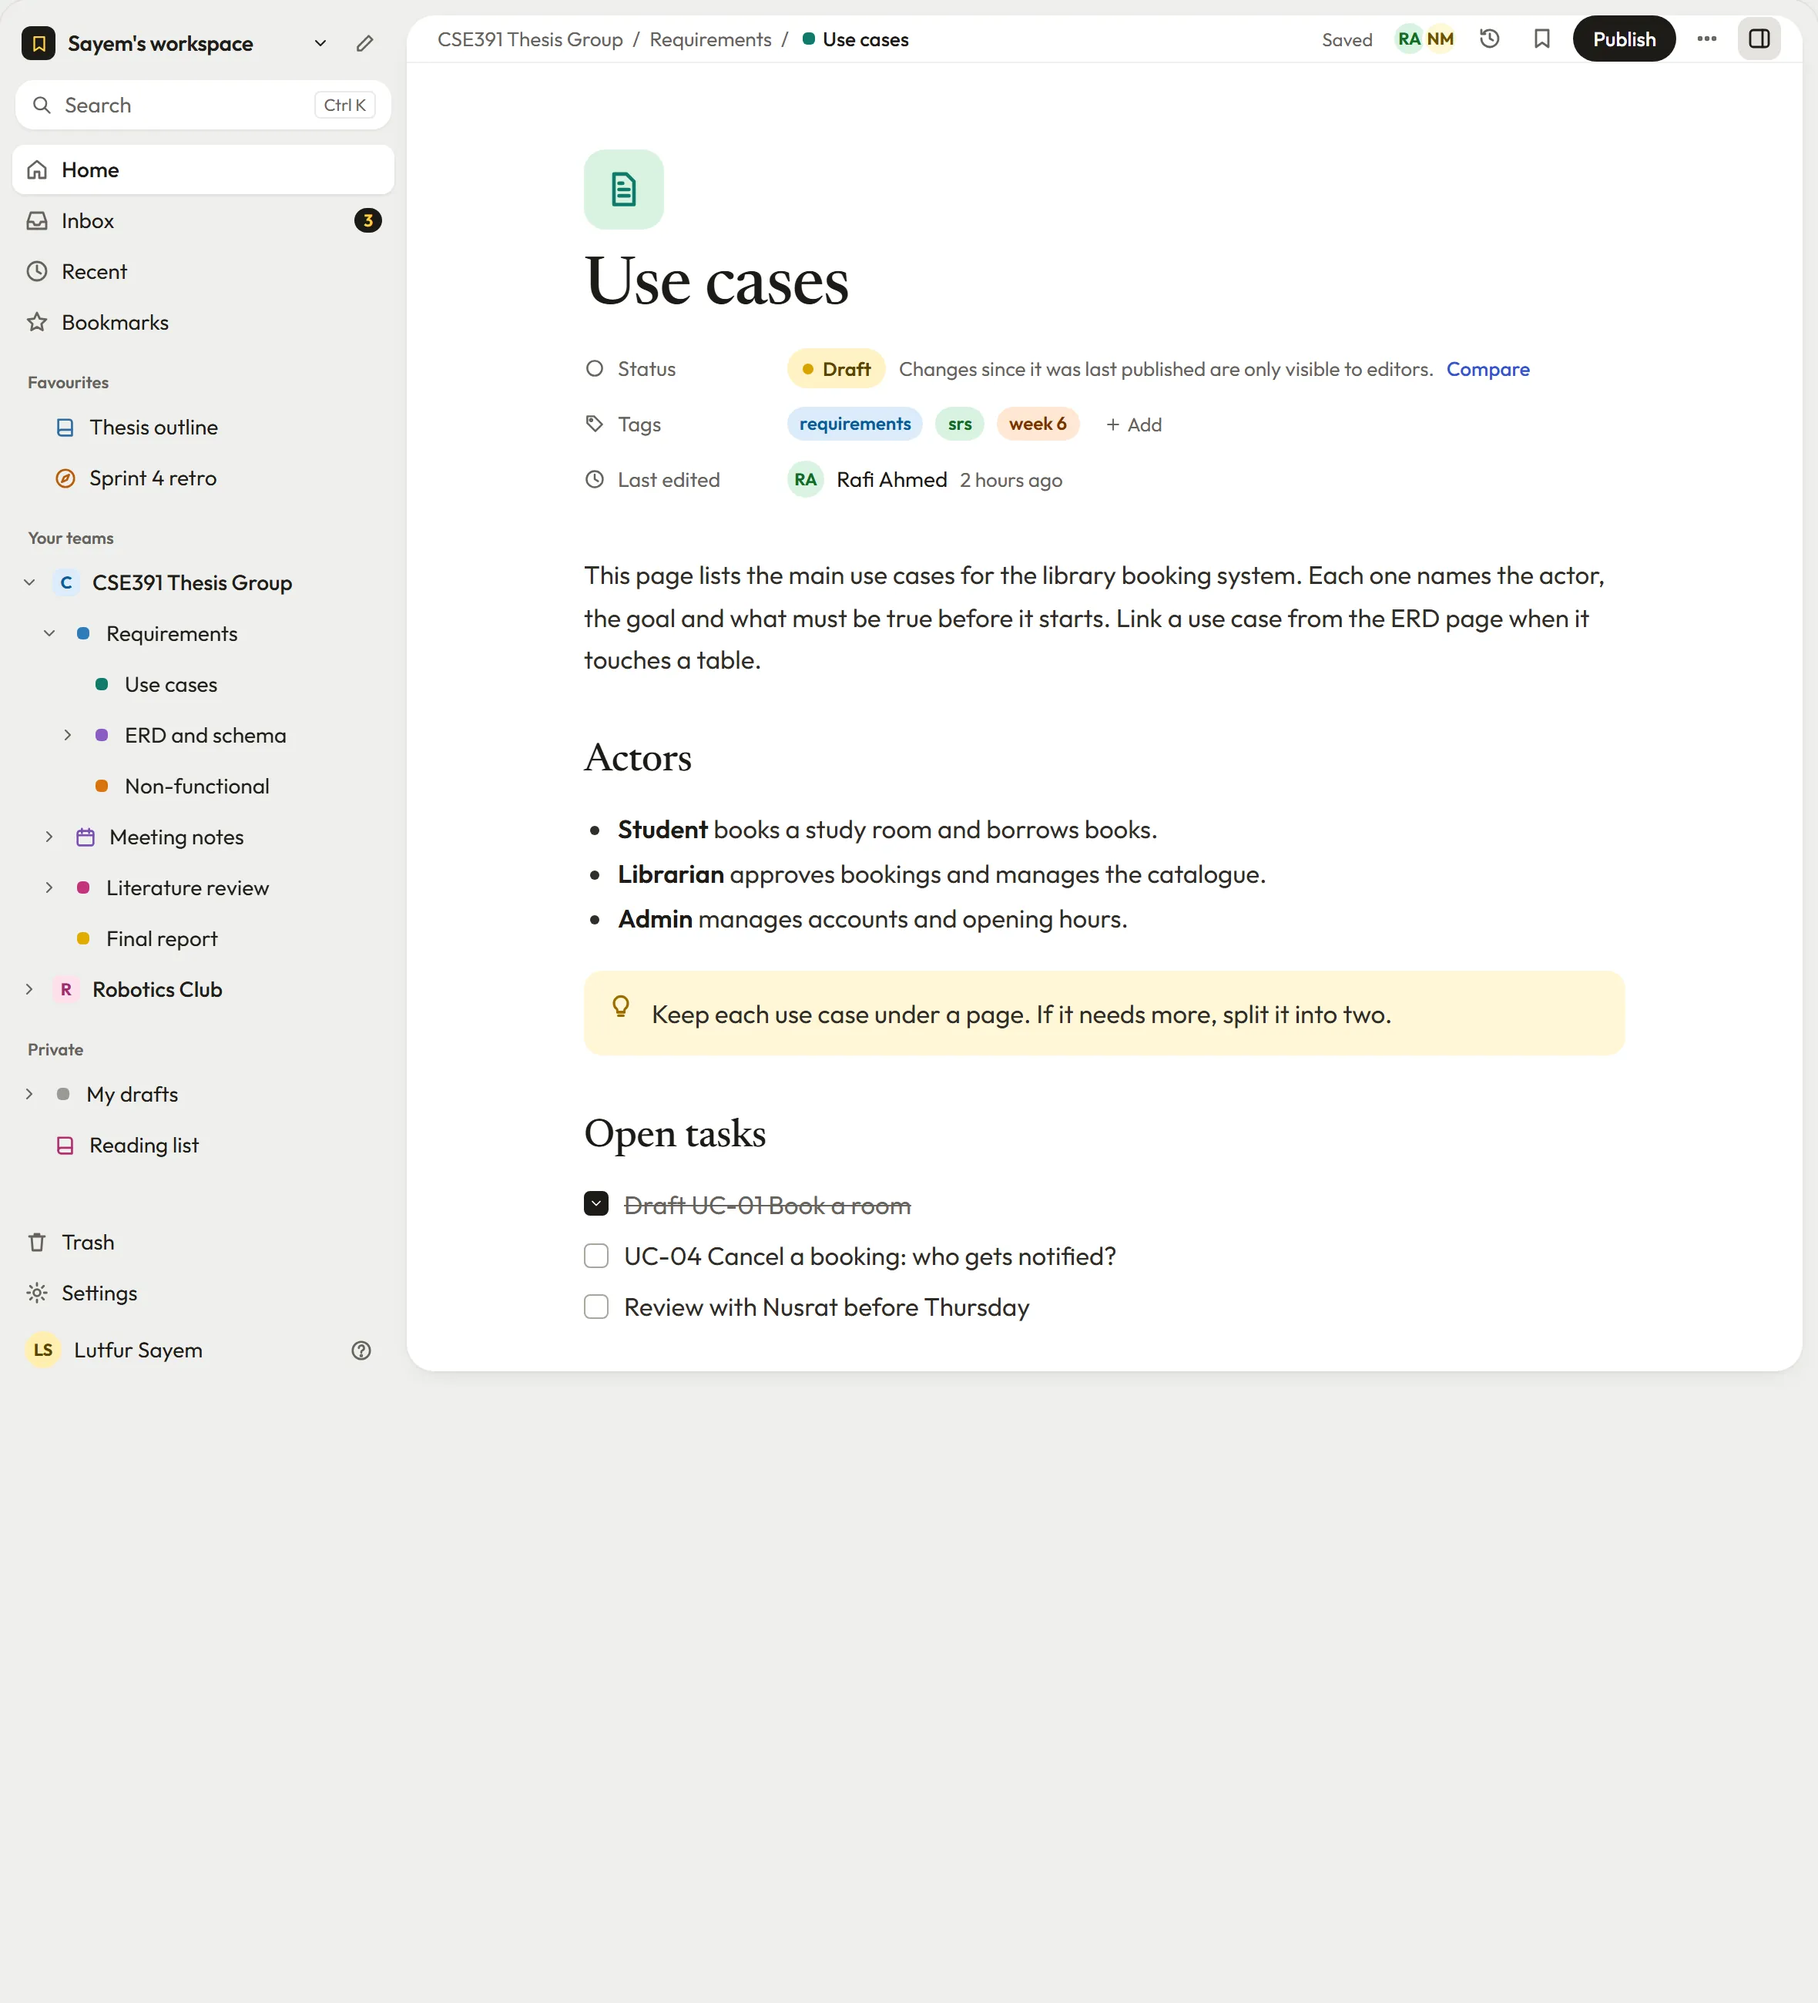
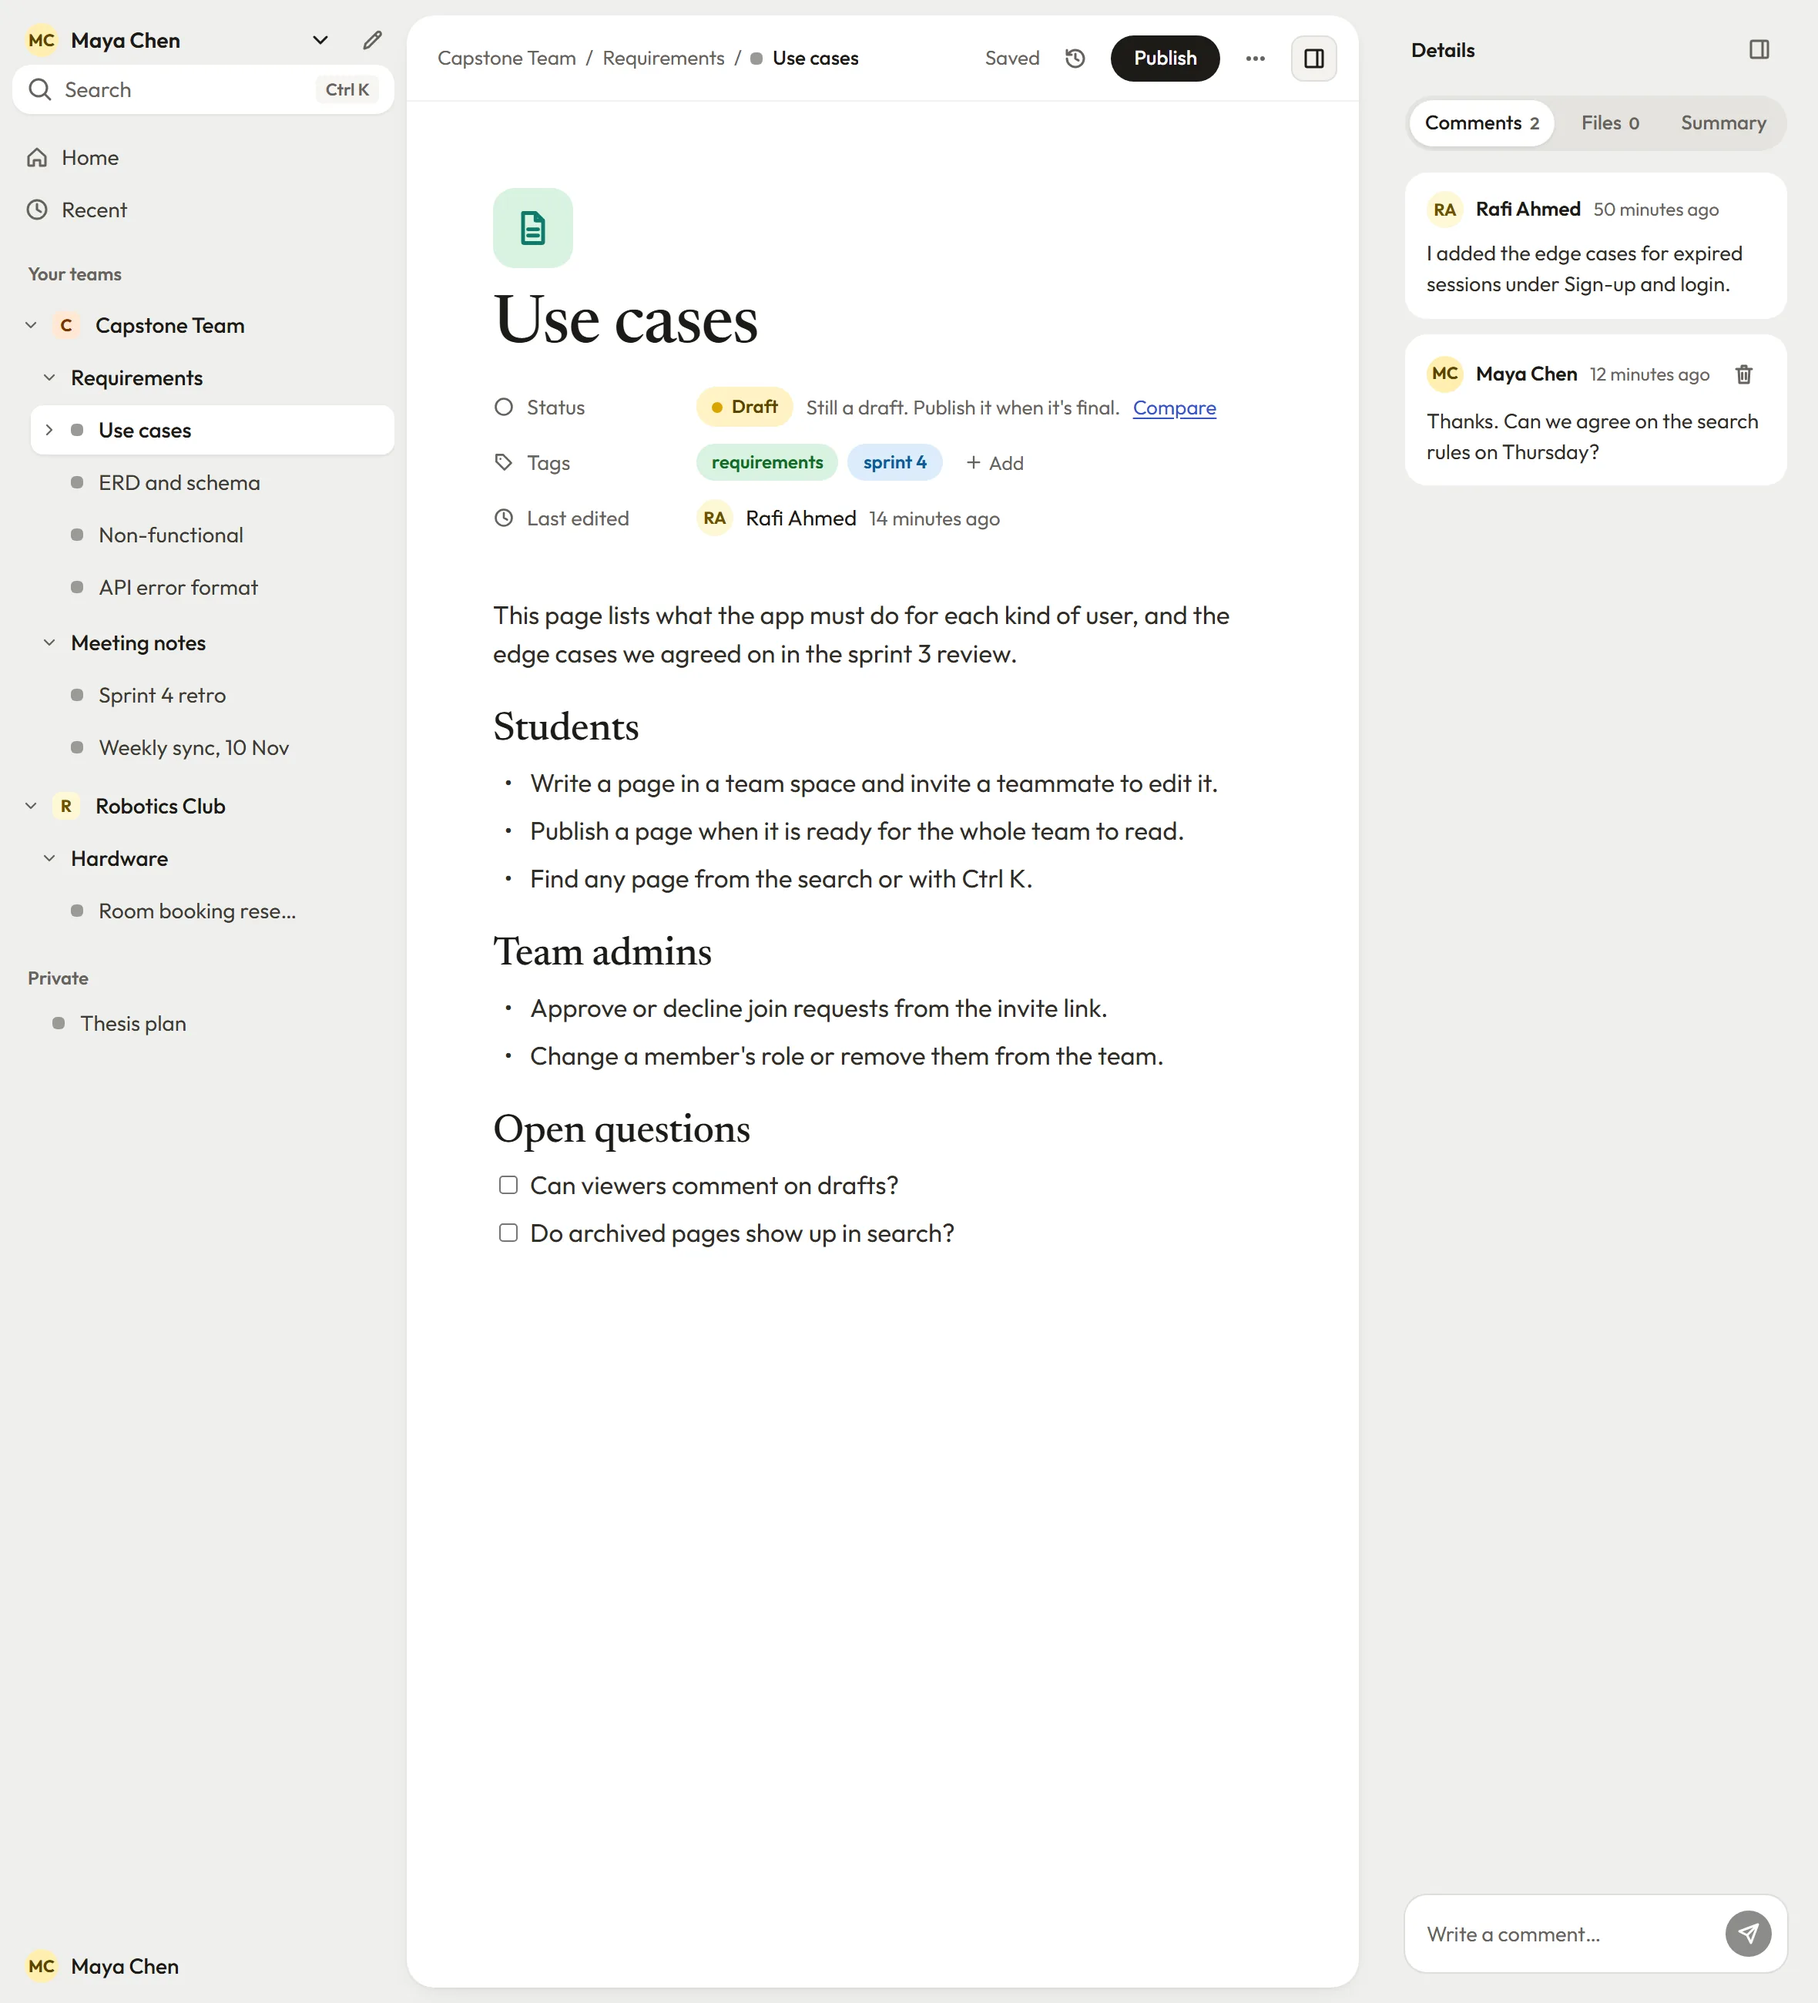
chore(styles): drop the legacy colour aliases and old dialog CSS, new app preview on the auth screens

diff --git a/frontend/src/styles/base.css b/frontend/src/styles/base.css
@@ -23,24 +23,3 @@ h3 { font-size: 22px; line-height: 1.25; letter-spacing: -0.01em; }
 @media (prefers-reduced-motion: reduce) {
   *, *::before, *::after { animation-duration: 0.01ms !important; animation-iteration-count: 1 !important; transition-duration: 0.01ms !important; scroll-behavior: auto !important; }
 }
-
-.page-note { color: var(--color-slate); }
-
-.banner { display: flex; align-items: center; flex-wrap: wrap; gap: var(--space-3); margin-bottom: var(--space-4); padding: var(--space-3) var(--space-4); border: 1px solid #f5d75e; background: #fef7d6; border-radius: var(--radius-md); font-size: 14px; }
-.banner > span { flex: 1; min-width: 12em; }
-.banner-btn { min-height: 32px; padding: 0 var(--space-3); border: 1px solid var(--color-hairline-strong); background: var(--color-canvas); border-radius: var(--radius-md); font: inherit; font-size: 13px; cursor: pointer; }
-.banner-btn--quiet { border-color: transparent; background: transparent; color: var(--color-warning-text); }
-
-/* Confirm dialog (native <dialog>, opened with showModal) */
-.kf-dialog { border: 1px solid var(--color-hairline-strong); border-radius: var(--radius-md); padding: var(--space-5); max-width: 420px; width: calc(100% - 2 * var(--space-4)); box-sizing: border-box; color: var(--color-ink); background: var(--color-canvas); }
-.kf-dialog::backdrop { background: rgba(0, 0, 0, 0.4); }
-.kf-dialog-title { font-size: 18px; margin: 0 0 var(--space-2); }
-.kf-dialog-body { margin: 0 0 var(--space-4); color: var(--color-slate); }
-.kf-dialog-actions { display: flex; justify-content: flex-end; gap: var(--space-2); }
-.kf-dialog-actions button { font: inherit; padding: var(--space-2) var(--space-4); border-radius: var(--radius-md); border: 1px solid var(--color-hairline-strong); background: var(--color-canvas); color: inherit; cursor: pointer; }
-.kf-dialog-actions .kf-primary { background: var(--color-primary); border-color: var(--color-primary); color: #fff; }
-.kf-dialog-actions .kf-danger { background: var(--color-error); border-color: var(--color-error); color: #fff; }
-
-/* Trash (wireframe; plain styling until its design pass) */
-
-

diff --git a/frontend/src/styles/tokens.css b/frontend/src/styles/tokens.css
@@ -81,41 +81,6 @@
   --content-max: 1080px;
   --reading-max: 740px;
 
-  /* ---- legacy, remove in DP-9: names still used by CSS that has not had its design pass yet ---- */
-  --color-primary: var(--primary);
-  --color-primary-pressed: var(--primary);
-  --color-primary-deep: var(--primary);
-  --color-primary-soft: var(--accent-soft);
-  --color-primary-ring: var(--ring);
-  --color-on-primary: var(--on-primary);
-  --color-link: var(--link);
-  --color-canvas: var(--canvas);
-  --color-surface: var(--surface-card);
-  --color-surface-soft: var(--surface-card);
-  --color-hover: var(--hover);
-  --color-hairline: var(--line);
-  --color-hairline-soft: var(--line-soft);
-  --color-hairline-strong: var(--input-border);
-  --color-ink: var(--ink);
-  --color-charcoal: var(--ink-doc);
-  --color-slate: var(--ink-muted);
-  --color-steel: var(--ink-muted);
-  --color-stone: #a4a097;
-  --color-muted: #bbb8b1;
-  --color-success: #1aae39;  --color-success-text: var(--success-text);  --color-success-soft: var(--published-bg);
-  --color-warning: #dd5b00;  --color-warning-text: var(--warning-text);  --color-warning-soft: var(--tint-peach-bg);
-  --color-error: #e03131;    --color-error-text: var(--error-text);      --color-error-soft: var(--error-soft);  --color-error-ink: var(--error-ink);
-  --color-info: #0075de;     --color-info-text: var(--tint-sky-fg);      --color-info-soft: var(--tint-sky-bg);
-  --color-highlight: var(--tint-yellow-bg);
-  --radius-chip: var(--r-chip);
-  --radius-sm: 6px;
-  --radius-md: var(--r-row);
-  --radius-lg: var(--r-lg);
-  --radius-full: var(--r-pill);
-  --space-12: 48px;
-  --ease-in: cubic-bezier(0.4, 0, 1, 1);
-  --sidebar-rail: 64px;
-  --page-pad: 32px;
 }
 
 /* Neutral Draft pill used in lists (Home, Recent); the yellow --draft-pill is for the page's properties block. */

diff --git a/frontend/src/ui/FormDialog.module.css b/frontend/src/ui/FormDialog.module.css
@@ -6,10 +6,13 @@
 .input:focus { outline: none; border-color: var(--primary); box-shadow: 0 0 0 3px var(--ring); }
 .error { margin: 8px 0 0; font-size: 13px; color: var(--error-text); }
 .actions { display: flex; justify-content: flex-end; gap: 8px; margin-top: 20px; }
-.ghost, .primary { height: 38px; padding: 0 18px; border-radius: var(--r-pill); font-size: 14px; font-weight: 500; cursor: pointer; border: 1px solid transparent; transition: background-color 150ms var(--ease-out), scale 150ms var(--ease-out); }
+.body { margin: -6px 0 0; font-size: 14px; line-height: 1.5; color: var(--ink-doc); text-wrap: pretty; }
+.ghost, .primary, .danger { height: 38px; padding: 0 18px; border-radius: var(--r-pill); font-size: 14px; font-weight: 500; cursor: pointer; border: 1px solid transparent; transition: background-color 150ms var(--ease-out), scale 150ms var(--ease-out); }
 .ghost { background: transparent; border-color: var(--line); color: var(--ink); }
 .ghost:hover:not(:disabled) { background: var(--hover); }
 .primary { background: var(--primary); color: var(--on-primary); }
 .primary:hover:not(:disabled) { background: color-mix(in srgb, var(--primary), white 14%); }
-.ghost:active:not(:disabled), .primary:active:not(:disabled) { scale: 0.96; }
+.danger { background: var(--danger); color: var(--on-primary); }
+.danger:hover:not(:disabled) { background: color-mix(in srgb, var(--danger), black 12%); }
+.ghost:active:not(:disabled), .primary:active:not(:disabled), .danger:active:not(:disabled) { scale: 0.96; }
 .ghost:disabled, .primary:disabled { opacity: 0.5; cursor: not-allowed; }

diff --git a/frontend/src/ui/ConfirmDialog.tsx b/frontend/src/ui/ConfirmDialog.tsx
@@ -1,4 +1,5 @@
 import { useEffect, useId, useRef, useState } from 'react'
+import s from './FormDialog.module.css'
 
 export interface ConfirmOptions {
   title: string
@@ -87,7 +88,7 @@ function Dialog({ title, body, confirmLabel, cancelLabel = 'Cancel', danger, ans
   return (
     <dialog
       ref={ref}
-      className="kf-dialog"
+      className={s.dialog}
       aria-labelledby={`${id}-title`}
       aria-describedby={body ? `${id}-body` : undefined}
       onKeyDown={onKeyDown}
@@ -96,11 +97,11 @@ function Dialog({ title, body, confirmLabel, cancelLabel = 'Cancel', danger, ans
         answer(false)
       }}
     >
-      <h2 id={`${id}-title`} className="kf-dialog-title">{title}</h2>
-      {body && <p id={`${id}-body`} className="kf-dialog-body">{body}</p>}
-      <div className="kf-dialog-actions">
-        <button type="button" ref={cancel} onClick={() => answer(false)}>{cancelLabel}</button>
-        <button type="button" className={danger ? 'kf-danger' : 'kf-primary'} onClick={() => answer(true)}>{confirmLabel}</button>
+      <h2 id={`${id}-title`} className={s.title}>{title}</h2>
+      {body && <p id={`${id}-body`} className={s.body}>{body}</p>}
+      <div className={s.actions}>
+        <button type="button" ref={cancel} className={s.ghost} onClick={() => answer(false)}>{cancelLabel}</button>
+        <button type="button" className={danger ? s.danger : s.primary} onClick={() => answer(true)}>{confirmLabel}</button>
       </div>
     </dialog>
   )
